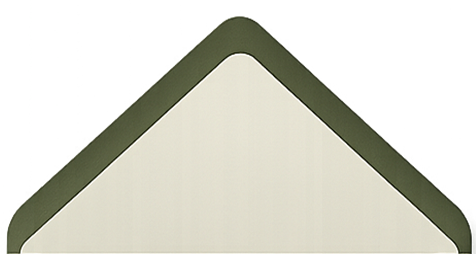
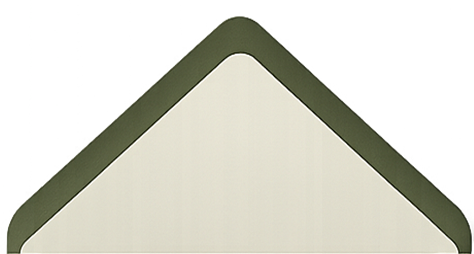
Complete all front animations

diff --git a/css/styles.css b/css/styles.css
@@ -201,6 +201,10 @@ body {
     animation: flowerFadeOut 1s ease-out forwards !important;
 }
 
+.envelope-container.flipped .click-text {
+    animation: slowFadeOut 1s ease-out forwards;
+}
+
 @keyframes flowerFadeOut {
     0% {
         opacity: 1;
@@ -259,14 +263,14 @@ body {
     position: absolute;
     width: 100%;
     height: 100%;
-    top: 0;
+    top: 100;
     background-image: url('../images/envelope_back_top.png');
     background-size: cover;
     background-position: center;
     background-repeat: no-repeat;
     transform: rotateY(180deg);
     backface-visibility: hidden;
-    z-index: 3;
+    z-index: 4;
 }
 
 /* Photos container - positioned between the two envelope back sections */
@@ -352,14 +356,14 @@ body {
 /* Flap - only visible after flip (on the back side) */
 .envelope-flap {
     position: absolute;
-    width: 86%;
-    height: 86%;
+    width: 86.4%;
+    height: 86.4%;
     background-image: url('../images/envelope_flap.png');
     background-size: cover;
     background-position: center;
     background-repeat: no-repeat;
-    top: -8px;
-    left: 47px;
+    top: -13px;
+    left: 62px;
     transform-origin: top center;
     transform-style: preserve-3d;
     transform: rotateY(180deg);
@@ -389,8 +393,8 @@ body {
     background-size: contain;
     background-position: center;
     background-repeat: no-repeat;
-    left: 60%;
-    bottom: 100%;
+    left: 51.4%;
+    bottom: 95%;
     transform-origin: bottom center;
     transform-style: preserve-3d;
     transform: translateX(-50%) rotateY(180deg) rotateX(-180deg);
@@ -420,7 +424,7 @@ body {
     background-image: url('../images/seal.png');
     background-size: cover;
     background-position: center;
-    top: 70%;
+    top: 72%;
     left: 52%;
     transform: translate(-50%, -50%) rotateY(180deg);
     z-index: 5;
@@ -482,7 +486,7 @@ body {
 }
 
 .envelope-container.opened .click-text {
-    animation: slowFadeOut 1s ease-out forwards;
+    animation: slowFadeOut 0.5s ease-out forwards;
 }
 
 .main-content {

diff --git a/index.html b/index.html
@@ -45,7 +45,7 @@
                     <div class="photo" style="background-image: url('../images/photo6.png');"></div>
                     <div class="photo" style="background-image: url('../images/photo7.png');"></div>
                     <div class="photo" style="background-image: url('../images/photo8.png');"></div>
-                </div7
+                </div>
                 
                 <div class="envelope-back-top"></div>
                 
